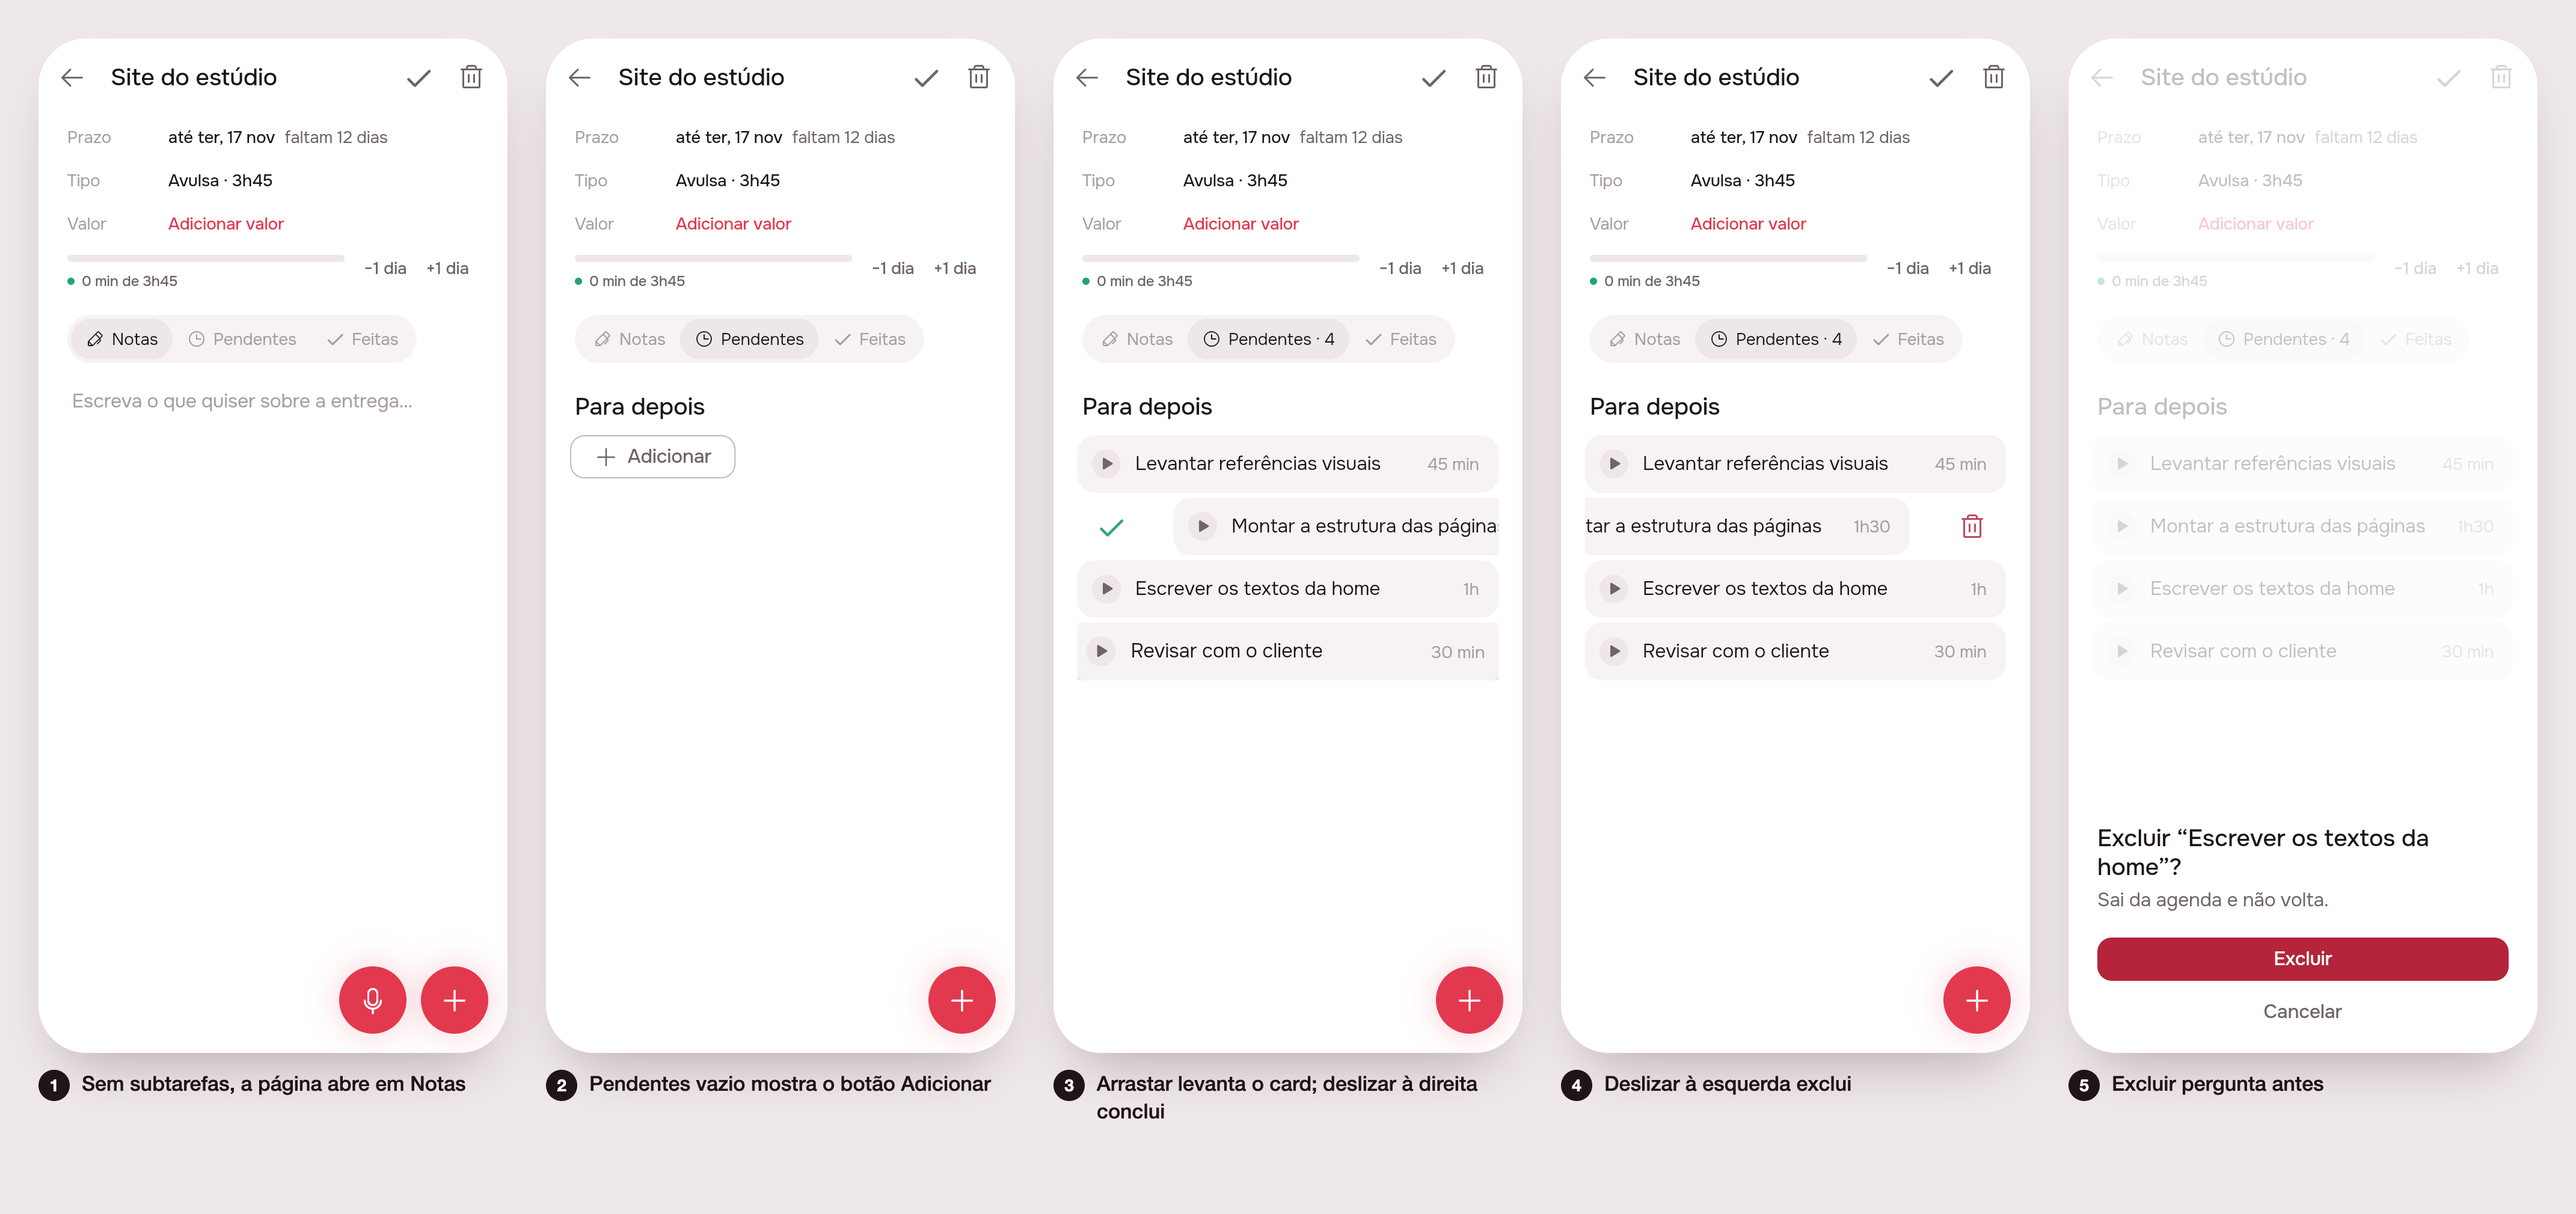
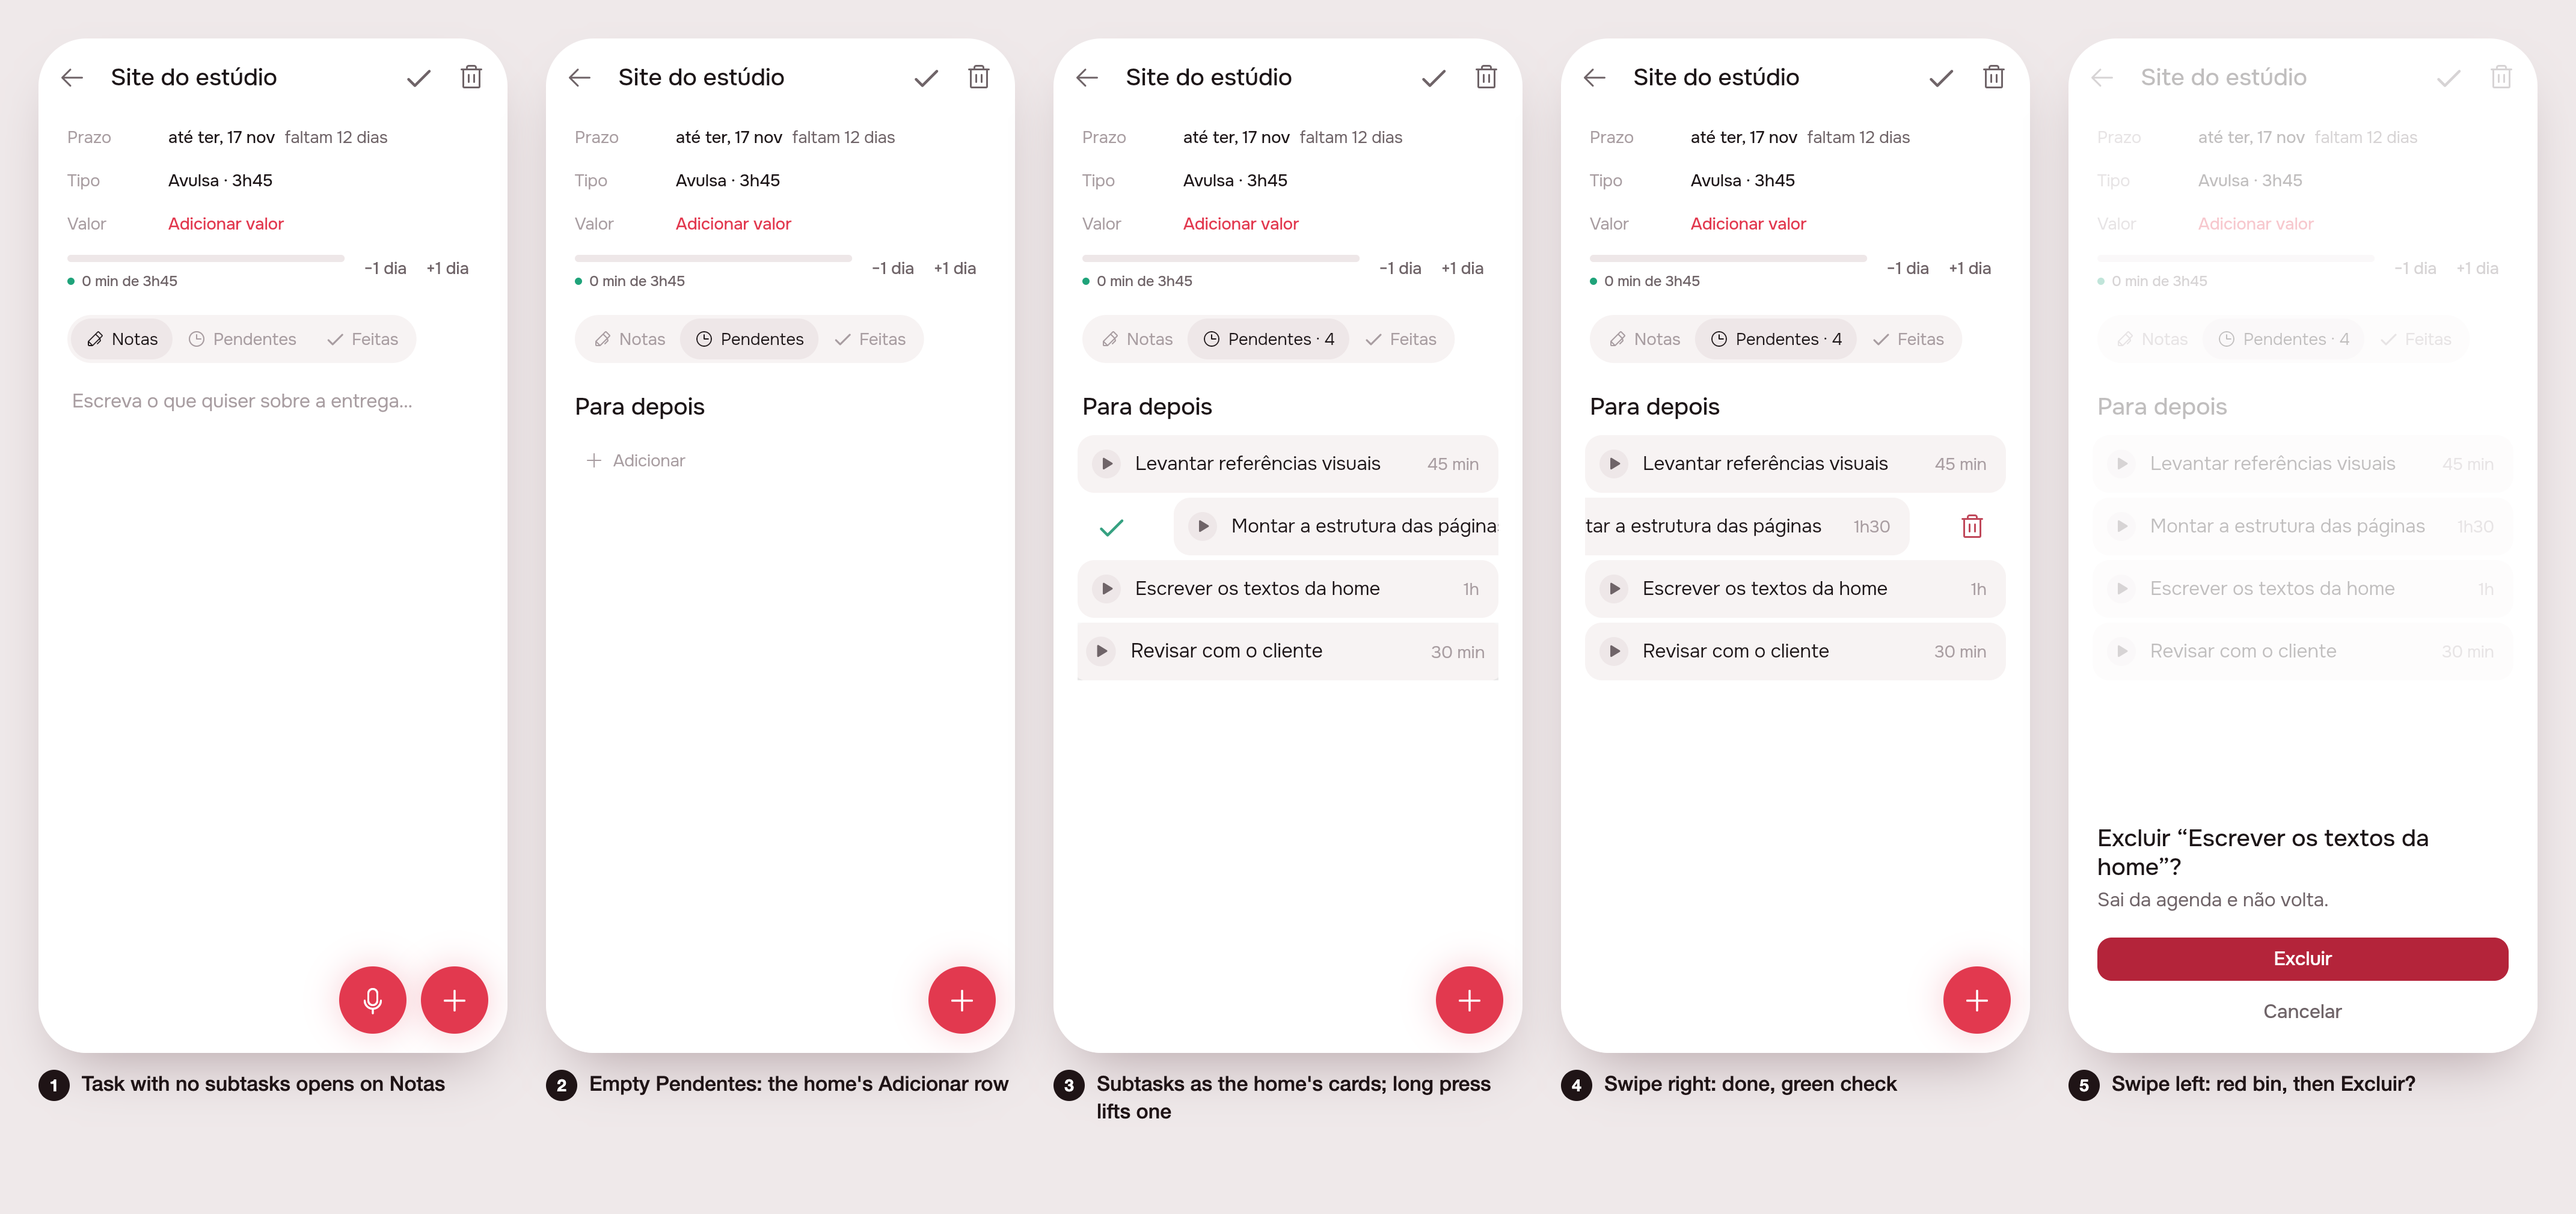
mockup(#94): revise · Visão da tarefa: notas, subtarefas e diálogos

diff --git a/app/packages/artifacts/lib/src/view/artifact_page.dart b/app/packages/artifacts/lib/src/view/artifact_page.dart
@@ -670,17 +670,10 @@ class _Tasks extends StatelessWidget {
         heading(l10n.stageBacklog),
         if (later.isEmpty)
           // The empty list offers the way out instead of describing it.
-          Align(
-            alignment: Alignment.centerLeft,
-            child: AppButton.icon(
-              variant: AppButtonVariant.secondary,
-              color: AppColors.ink2,
-              icon: const AppIcon(iconData: AppIcons.plus, size: 20),
-              text: l10n.composeAdd,
-              onPressed: () => ComposeLauncher.maybeOf(
-                context,
-              )?.open(context, about: AgentSubject.artifact(artifact.id)),
-            ),
+          AppAddRow(
+            onTap: () => ComposeLauncher.maybeOf(
+              context,
+            )?.open(context, about: AgentSubject.artifact(artifact.id)),
           ),
         for (final task in later)
           Padding(

diff --git a/product/delivery/2026-11-05-task-view/README.md b/product/delivery/2026-11-05-task-view/README.md
@@ -17,7 +17,7 @@ From the issue, verbatim:
 
 1. With no subtasks the page opens on **Notas**: the same body a delivery's
    Notas tab has (just the hint, no title or text field of its own).
-2. An empty **Pendentes** shows the home's own button, **Adicionar**, that
+2. An empty **Pendentes** shows the home's own `AppAddRow`, **Adicionar**, that
    opens the composer about this task; the "Nada esperando…" sentence is gone.
 3. Subtasks are the home's `TaskCard`s with its spacing (`kQueueGap`, 4 px).
    A long press lifts one to drag it; swipe right ticks it off, as on the
@@ -33,7 +33,11 @@ Second reply (verbatim):
 
 > adicionar should not have red button. The rest seems good.
 
-Revised: the empty **Adicionar** is an outlined neutral button (`AppButton.icon`, `secondary`, `color: AppColors.ink2`), no longer accent red.
+Third reply (verbatim):
+
+> Adicionar should be the exact same component as home.
+
+Revised: the empty **Adicionar** is now `AppAddRow`, the very widget the home ends its sections with (a + and Adicionar in the quiet ink), not a button.
 
 Decided unattended: the home's list has no swipe; the calendar (`timeline_list.dart` ~1196) does, so "same as the home" is read as that: right = done at once with a green check, left = delete after `confirmDelete`. This drops the done dialog the first brief asked for.
  "the task page" is `ArtifactPage` (a task with
@@ -53,7 +57,7 @@ Written in this session (kept for the build):
   and `previewLifted` on `ArtifactPage`.
 - `app/packages/timeline/lib/src/widgets/confirm_sheet.dart`: `confirmDone`
   (now unused: remove it and `confirmDone*` from the arb).
-- Empty button reads `composeAdd` ("Adicionar"), neutral (`AppColors.ink2`, not red); `SubtaskRow` shows only the
+- Empty state is `AppAddRow` (same widget as the home); `SubtaskRow` shows only the
   icon, as the calendar does.
 
 The build must still:
